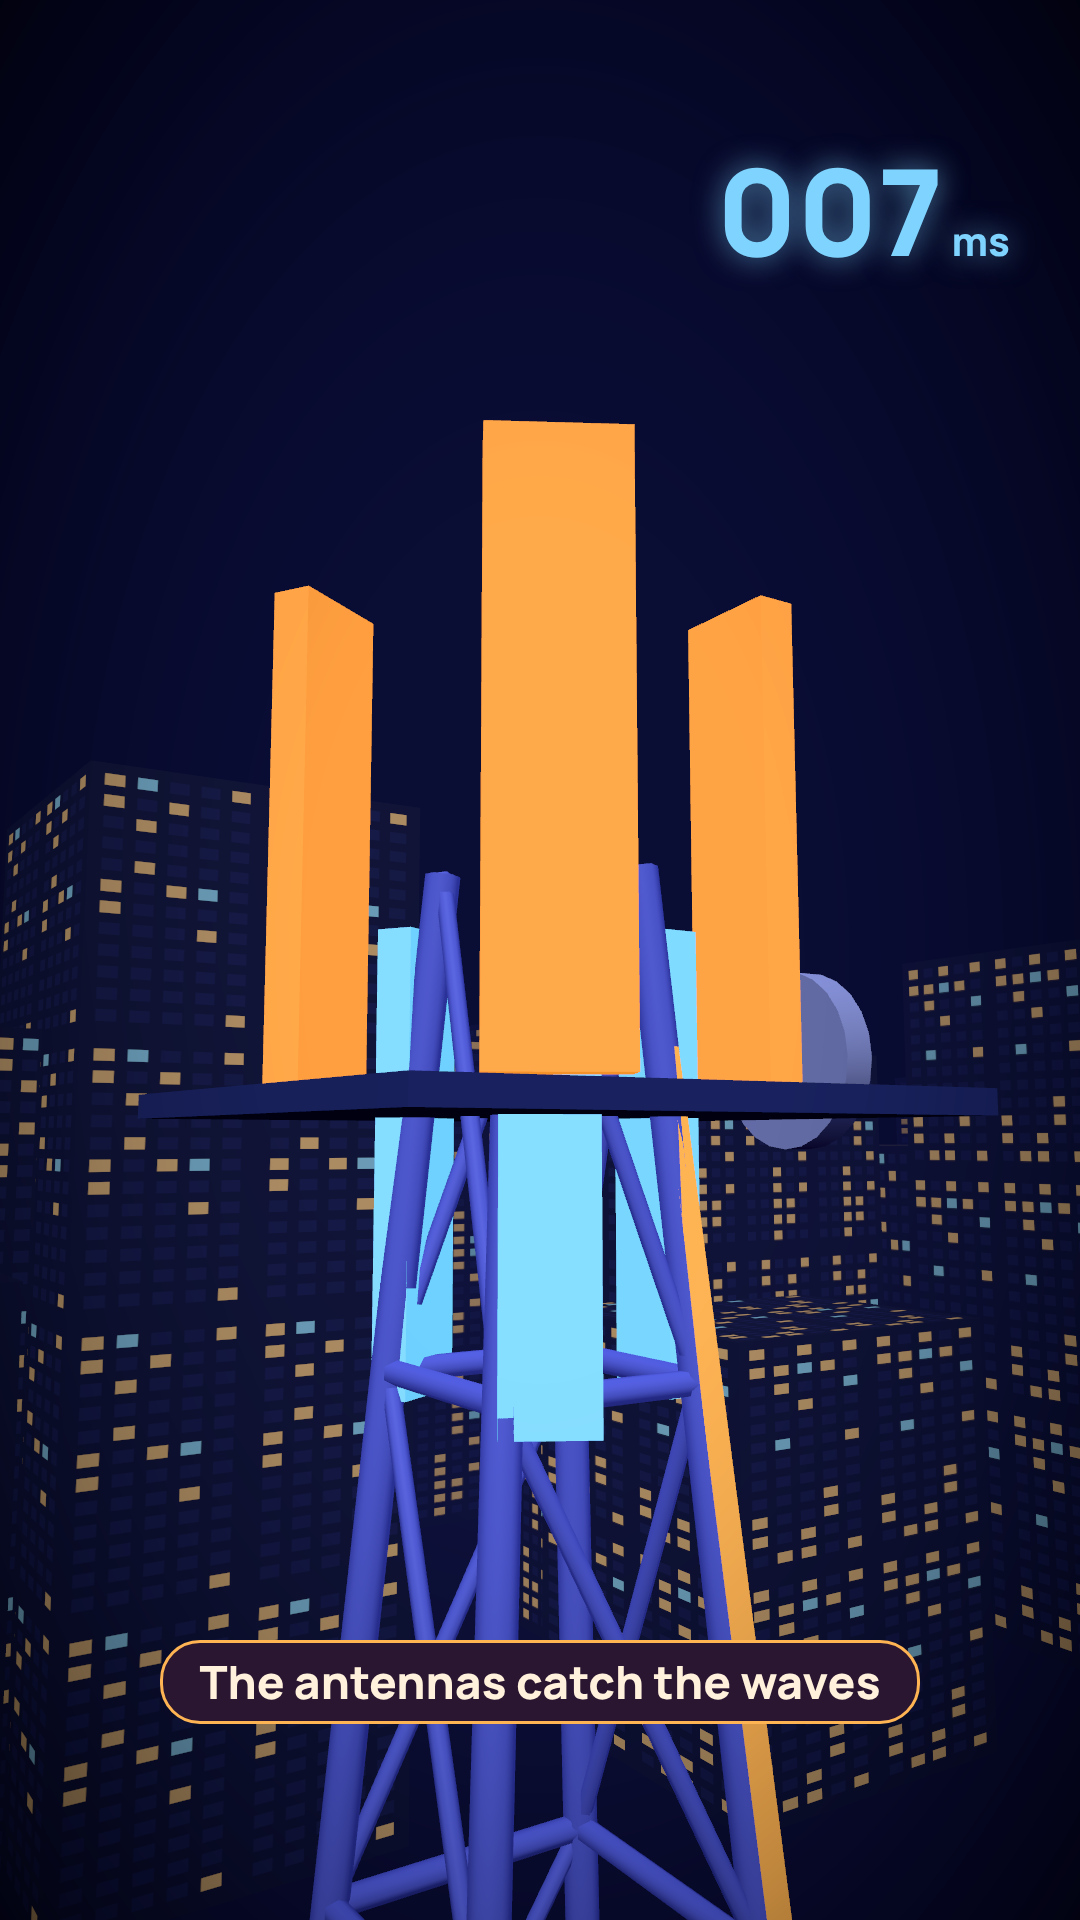
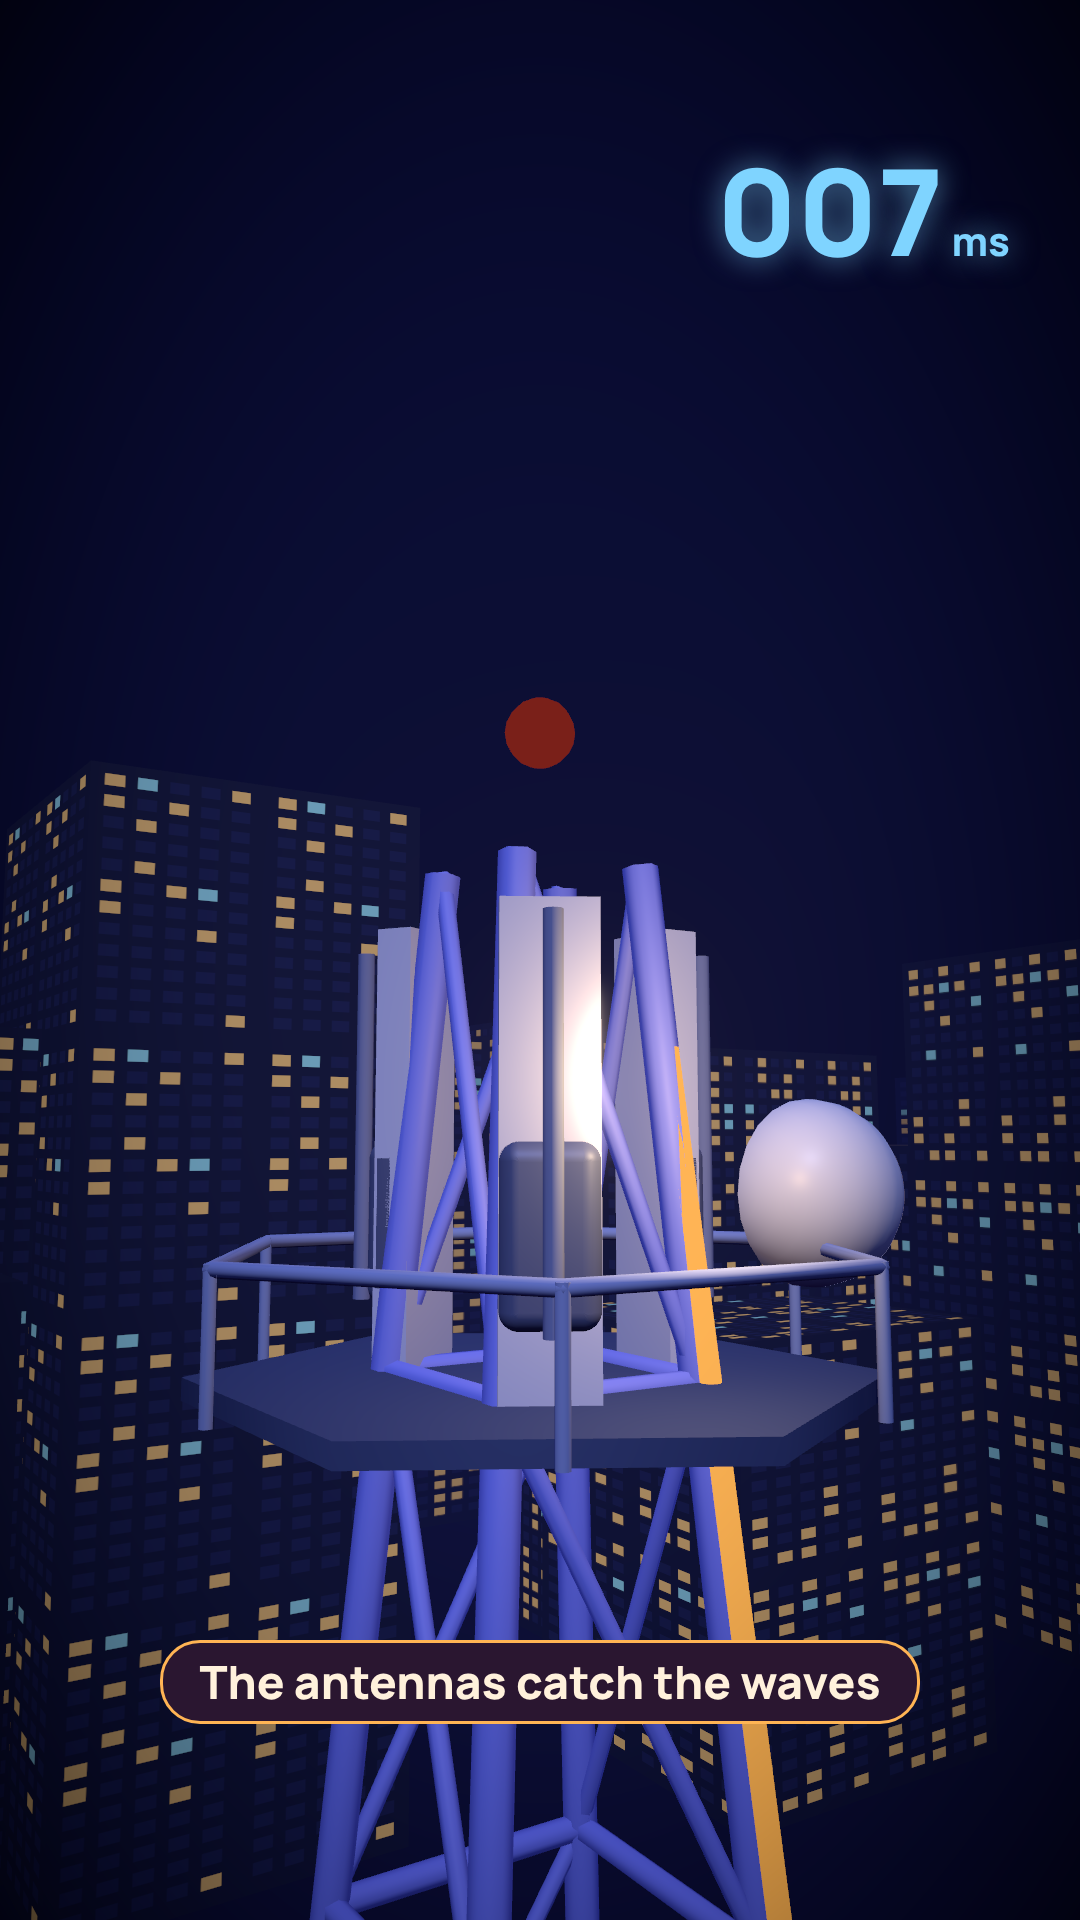
Tower scene: softer, more real top (railing, radio units, dish)
Claude-Session: https://claude.ai/code/session_01GXcKc5WpkD8jhBf44cT6jS

Changed region(s): [[0.1222, 0.2188, 0.9472, 0.7812]]

diff --git a/internet/v3/src/v4/TowerHyd.tsx b/internet/v3/src/v4/TowerHyd.tsx
@@ -2,6 +2,7 @@ import React, { useLayoutEffect } from 'react';
 import { AbsoluteFill } from 'remotion';
 import { ThreeCanvas } from '@remotion/three';
 import { useThree } from '@react-three/fiber';
+import { RoundedBox } from '@react-three/drei';
 import { EffectComposer, Bloom, Vignette } from '@react-three/postprocessing';
 import * as THREE from 'three';
 import { F, vfov } from './frame';
@@ -33,16 +34,22 @@ const Cables: React.FC<{ beat: number }> = ({ beat }) => { const top = V(TOWER.x
 const Waves: React.FC = () => (<group position={[0.3, 3.4, 0]} quaternion={new THREE.Quaternion().setFromUnitVectors(V(0, 0, 1), TOWER.clone().sub(V(0, 3.2, 0)).normalize())}>
   {Array.from({ length: 6 }).map((_, k) => { const u = k / 6; return <mesh key={k} position={[0, 0, 1.5 + u * 24]}><torusGeometry args={[1.2 + u * 9, 0.09 + u * 0.1, 10, 70, Math.PI * 1.1]} /><meshBasicMaterial color="#ffb454" transparent opacity={0.85 * (1 - u * 0.8)} /></mesh>; })}
 </group>);
-const Panels: React.FC = () => (<group position={[TOWER.x, BASE + 20.5, TOWER.z]}>
-  <mesh position={[0, 0.2, 0]}><boxGeometry args={[3.4, 0.14, 3.4]} /><meshStandardMaterial color="#3a4a8a" /></mesh>
-  {[0, 1, 2].map((k) => <mesh key={k} position={[Math.cos(k * 2.09) * 1.5, 1.8, Math.sin(k * 2.09) * 1.5]} rotation-y={-k * 2.09 + Math.PI / 2}><boxGeometry args={[0.7, 3, 0.25]} /><meshStandardMaterial color="#ffb454" emissive="#ff9a2a" emissiveIntensity={0.9} /></mesh>)}
-  <mesh position={[1.9, 0.5, 0]} rotation-z={Math.PI / 2}><cylinderGeometry args={[0.55, 0.55, 0.2, 24]} /><meshStandardMaterial color="#e8eefc" /></mesh>
+const Panels: React.FC = () => (<group position={[TOWER.x, BASE + 20.4, TOWER.z]}>
+  {/* walkway ring with a soft railing, a radio unit behind each antenna, a dish, cable bundles */}
+  <mesh position={[0, -1.2, 0]}><cylinderGeometry args={[1.9, 1.9, 0.12, 6]} /><meshStandardMaterial color="#5a6aa0" roughness={0.6} metalness={0.4} /></mesh>
+  <mesh position={[0, -0.5, 0]} rotation-x={Math.PI / 2}><torusGeometry args={[1.85, 0.04, 8, 6]} /><meshStandardMaterial color="#9fb0e0" /></mesh>
+  {Array.from({ length: 6 }).map((_, k) => <mesh key={k} position={[Math.cos(k * 1.047) * 1.85, -0.85, Math.sin(k * 1.047) * 1.85]}><cylinderGeometry args={[0.035, 0.035, 0.75, 8]} /><meshStandardMaterial color="#9fb0e0" /></mesh>)}
+  {[0, 1, 2].map((k) => <group key={k} rotation-y={-k * 2.09 + Math.PI / 2} position={[Math.cos(k * 2.09) * 1.15, 0, Math.sin(k * 2.09) * 1.15]}>
+    <RoundedBox args={[0.5, 0.9, 0.28]} radius={0.1} smoothness={4} position={[0, -0.35, -0.3]}><meshStandardMaterial color="#6e7aa8" roughness={0.5} metalness={0.3} /></RoundedBox>
+    <mesh position={[0, 0.2, 0]}><cylinderGeometry args={[0.05, 0.05, 2.0, 8]} /><meshStandardMaterial color="#8a96c0" /></mesh></group>)}
+  <mesh position={[1.7, -0.2, 0.3]} rotation-z={Math.PI / 2}><sphereGeometry args={[0.55, 24, 12, 0, Math.PI]} /><meshStandardMaterial color="#f2f5ff" roughness={0.4} side={THREE.DoubleSide} /></mesh>
+  <pointLight position={[0, 0.4, 1.6]} intensity={5} color="#ffd38a" distance={7} />
 </group>);
 const Scene: React.FC<{ beat: number }> = ({ beat }) => (<AbsoluteFill style={{ background: '#070a22' }}>
   <ThreeCanvas width={F.W} height={F.H} gl={{ antialias: true }} camera={{ fov: 36, near: 0.05, far: 400 }}>
     <Cam beat={beat} /><color attach="background" args={['#0a0d34']} /><fog attach="fog" args={['#0c1040', 30, 160]} />
     <hemisphereLight args={['#7f8cff', '#160c44', 1.15]} /><directionalLight position={[-8, 12, 10]} intensity={1.3} color="#c9d2ff" />
-    <City /><Tower t={6.4} />{beat === 1 && <Waves />}{beat === 3 && <Panels />}{beat >= 2 && <Cables beat={beat} />}{beat === 4 && <Cabinet />}
+    <City /><Tower t={0} />{beat === 1 && <Waves />}{beat >= 2 && beat <= 3 && <Panels />}{beat >= 2 && <Cables beat={beat} />}{beat === 4 && <Cabinet />}
     <EffectComposer><Bloom intensity={0.6} luminanceThreshold={0.8} luminanceSmoothing={0.2} mipmapBlur /><Vignette eskil={false} offset={0.22} darkness={0.7} /></EffectComposer>
   </ThreeCanvas>
   <div style={{ position: 'absolute', right: 70, top: 150, display: 'flex', alignItems: 'baseline', gap: 8, font: `800 120px/1 ${FONT.ui}`, color: '#7fd4ff', textShadow: '0 0 30px rgba(127,212,255,.6)' }}>{['', '005', '007', '007', '008'][beat]}<span style={{ font: `800 40px ${FONT.ui}` }}>ms</span></div>
